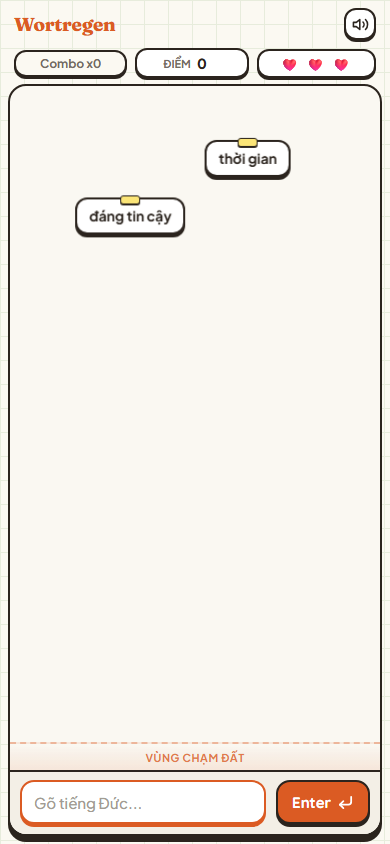
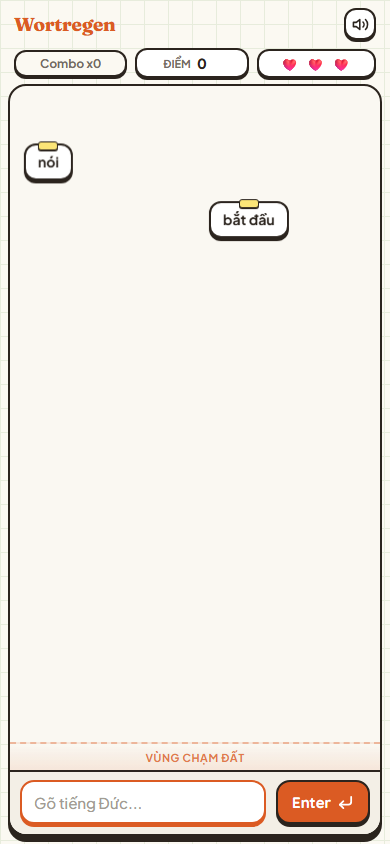
fix(wortregen): halt gameLoop immediately on game over and add regression test for simultaneous ground collisions

Changed region(s): [[0.5231, 0.154, 0.7692, 0.3081], [0.1846, 0.2156, 0.4923, 0.3081], [0.0615, 0.154, 0.1846, 0.2156]]

diff --git a/e2e/wortregen-prototype.spec.js b/e2e/wortregen-prototype.spec.js
@@ -237,4 +237,59 @@ test.describe('Wortregen V0.1 Gameplay Prototype', () => {
     await page.screenshot({ path: 'screenshot_wortregen_mobile.png', fullPage: false });
   });
 
+  test('regression: 2 words touching ground simultaneously when lives === 1 yields lives === 0 and clean single game over', async ({ page }) => {
+    await page.goto('/wortregen.html');
+    await page.waitForFunction(() => window.wortregenGame !== undefined);
+    await page.click('#btn-start');
+    await expect(page.locator('#start-screen')).toBeHidden();
+
+    // Setup state: 1 life remaining, 2 active words spawned
+    await page.evaluate(() => {
+      const g = window.wortregenGame;
+      g.lives = 1;
+      g.missedCount = 2; // already lost 2 lives prior
+      while (g.activeWords.filter(w => !w.isDying).length < 2) {
+        g.maybeSpawnWord();
+      }
+    });
+
+    // Ensure 2 active words are present
+    await page.waitForFunction(() => {
+      const g = window.wortregenGame;
+      return g && g.activeWords.filter(w => !w.isDying).length >= 2;
+    });
+
+    // Position BOTH words simultaneously at/below ground limit in same frame
+    await page.evaluate(() => {
+      const g = window.wortregenGame;
+      const words = g.activeWords.filter(w => !w.isDying);
+      words[0].y = g.fallingArea.clientHeight;
+      words[1].y = g.fallingArea.clientHeight;
+    });
+
+    // Wait for the animation frame loop to process the collision
+    await page.waitForFunction(() => {
+      const g = window.wortregenGame;
+      return g && g.state === 'GAME_OVER';
+    }, { timeout: 4000 });
+
+    // Verify strict invariants:
+    // 1. lives must be exactly 0 (NEVER -1 or negative)
+    const finalLives = await page.evaluate(() => window.wortregenGame.lives);
+    expect(finalLives).toBe(0);
+
+    // 2. missedCount must be exactly 3 (incremented once by the game-ending word, second word stopped)
+    const finalMissed = await page.evaluate(() => window.wortregenGame.missedCount);
+    expect(finalMissed).toBe(3);
+
+    // 3. UI shows exactly 3 lost hearts
+    expect(await page.locator('#hud-lives .hud-heart.lost').count()).toBe(3);
+    const heartTexts = await page.locator('#hud-lives .hud-heart').allInnerTexts();
+    expect(heartTexts).toEqual(['🤍', '🤍', '🤍']);
+
+    // 4. Game Over screen visible with correct stats
+    await expect(page.locator('#game-over-screen')).toBeVisible();
+    await expect(page.locator('#summary-missed')).toHaveText('3');
+  });
+
 });

diff --git a/wortregen.js b/wortregen.js
@@ -451,6 +451,8 @@
       const groundLimit = this.fallingArea.clientHeight;
 
       for (let i = this.activeWords.length - 1; i >= 0; i--) {
+        if (this.state !== 'PLAYING') break;
+
         const w = this.activeWords[i];
         if (w.isDying) continue;
 
@@ -460,6 +462,9 @@
         // Check if word hits ground threshold
         if (w.y + w.height >= groundLimit - 4) {
           this.handleWordMissed(w, i);
+          if (this.state !== 'PLAYING') {
+            break; // Stop processing remaining words immediately in this frame
+          }
         }
       }
 
@@ -472,11 +477,13 @@
     // Word Missed (Hits Ground)
     // -------------------------------------------------------------------------
     handleWordMissed(word, index) {
+      if (this.state !== 'PLAYING') return;
+
       word.isDying = true;
       this.activeWords.splice(index, 1);
 
-      // Penalty
-      this.lives -= 1;
+      // Penalty (clamped so lives cannot go below 0)
+      this.lives = Math.max(0, this.lives - 1);
       this.combo = 0;
       this.missedCount += 1;
 
